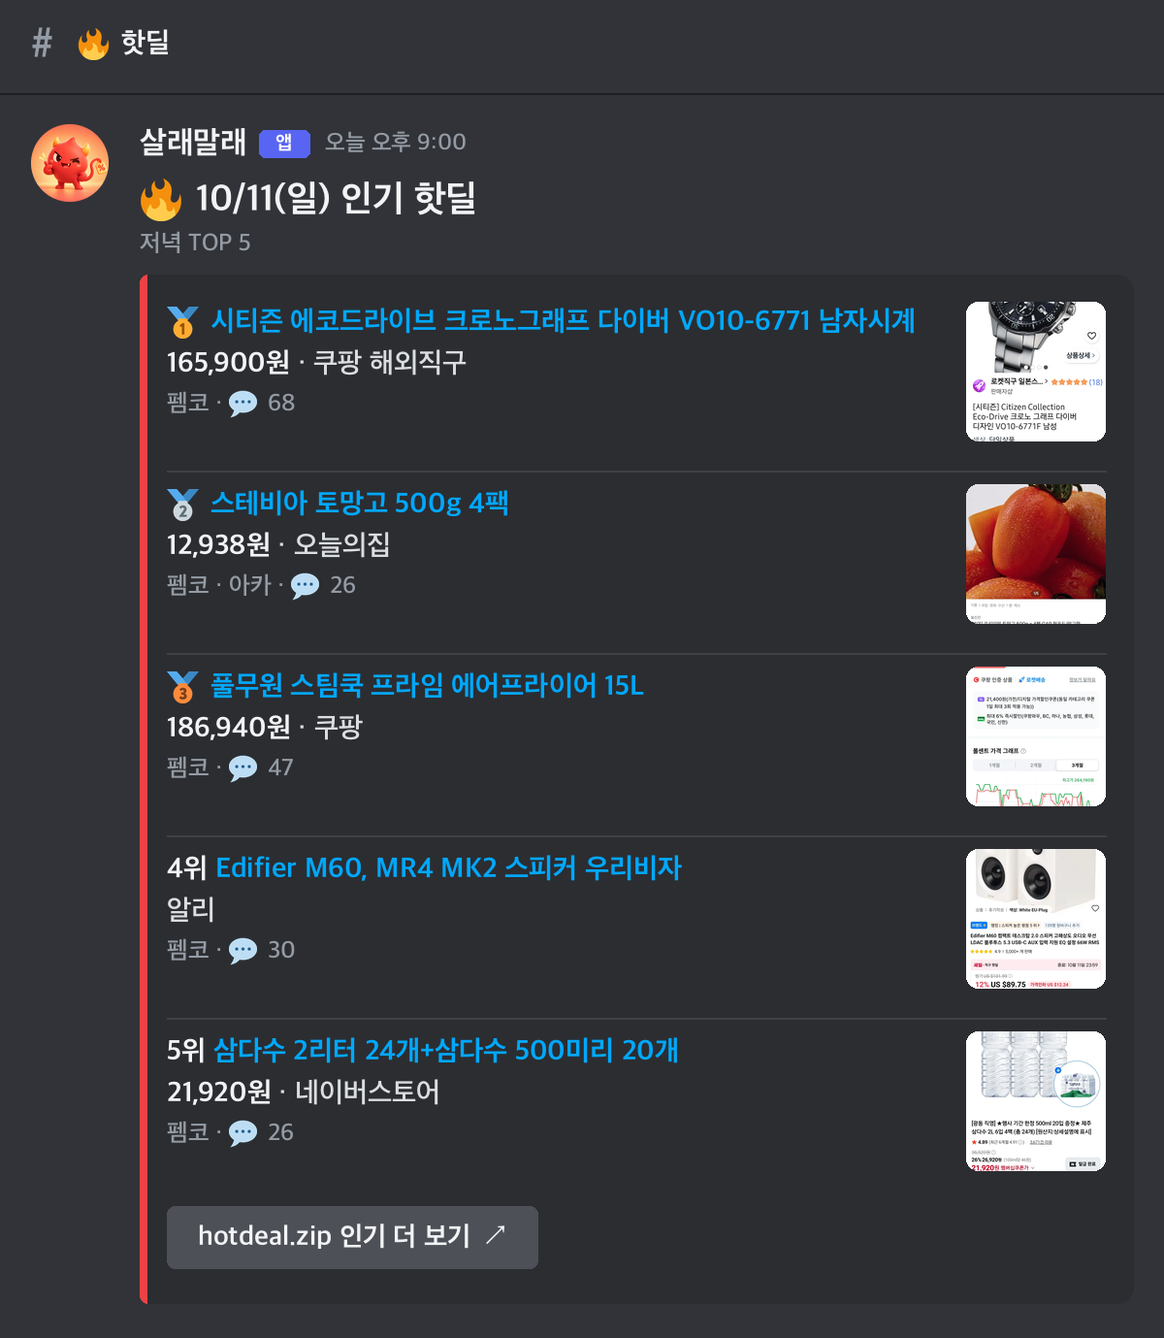
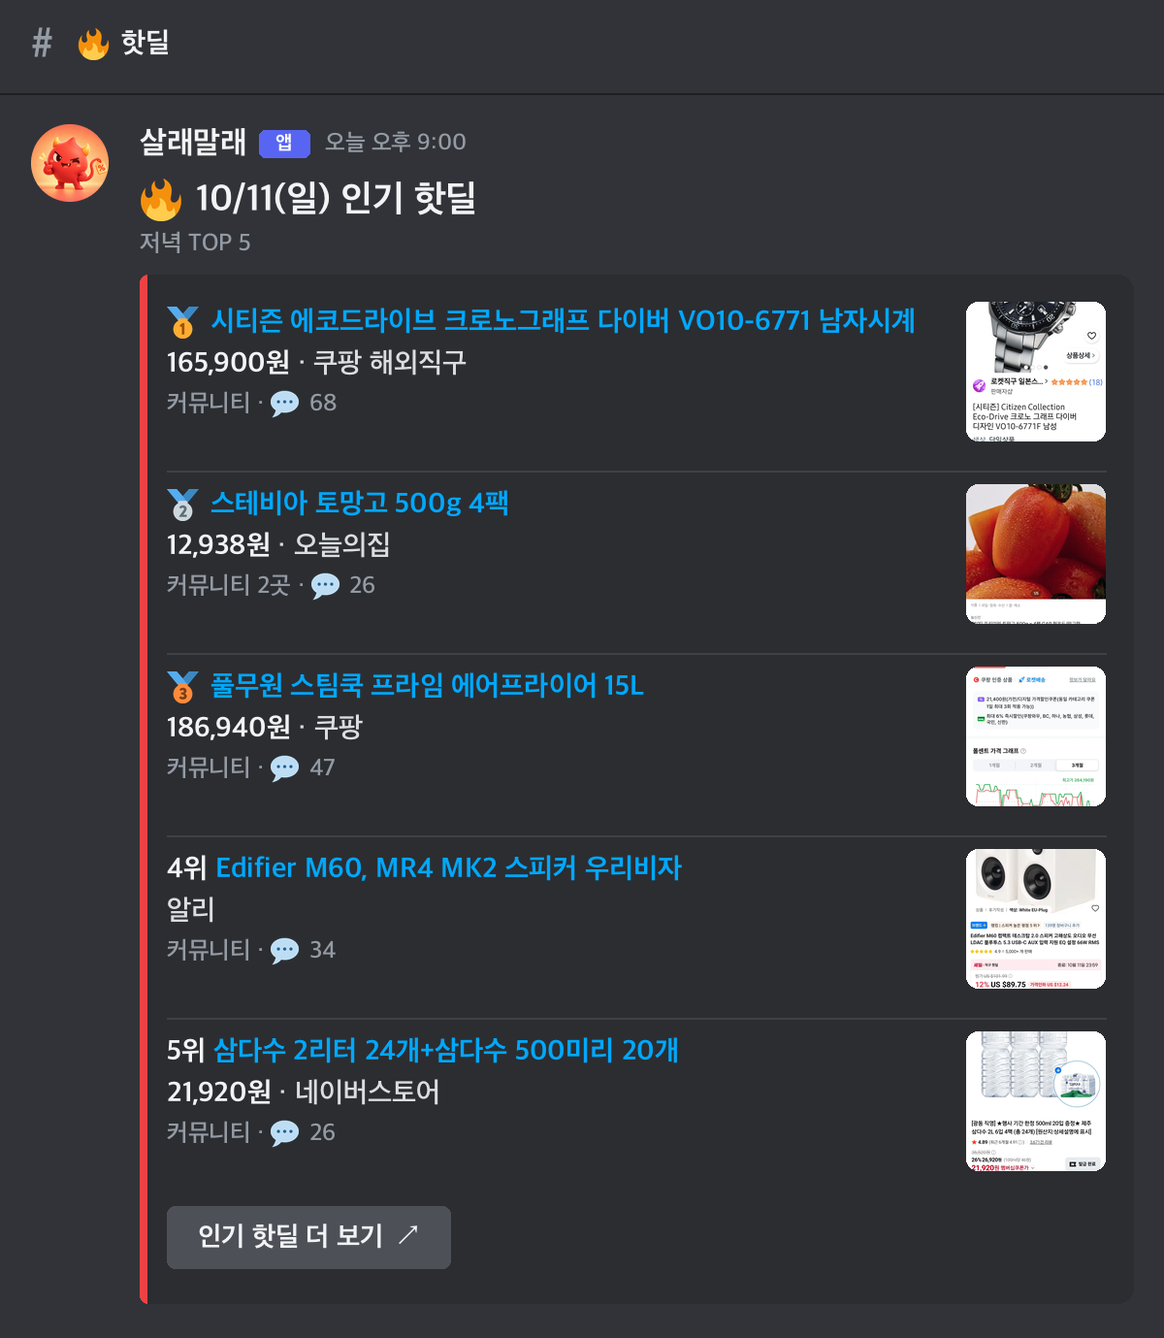
문서·README 예시 그림에서 커뮤니티·사이트 이름을 일반 명칭으로

diff --git a/docs/flow.html b/docs/flow.html
@@ -86,7 +86,7 @@ code{background:var(--neutral-bg);padding:1px 5px;border-radius:4px;font-size:.9
       <h2>📥 딜 모으기 · 알림</h2>
       <p class="sub">매 실행 · <code>sources.py</code> · <code>matcher.py</code></p>
       <div class="flow">
-        <div class="node n-blue">최근 24시간 딜 읽기<small>왓딜 API(펨코·뽐뿌·아카·퀘이사존…) · 루리웹 · 클리앙</small></div>
+        <div class="node n-blue">최근 24시간 딜 읽기<small>핫딜 모음 사이트 API · 커뮤니티 게시판 2곳</small></div>
         <div class="arrow"></div>
         <div class="node">SQLite에 기록<small>같은 딜은 묶고, 본 딜은 댓글 수만 새로</small></div>
         <div class="arrow"></div>
@@ -137,7 +137,7 @@ code{background:var(--neutral-bg);padding:1px 5px;border-radius:4px;font-size:.9
     <table>
       <tbody>
         <tr><th>실행</th><td>GitHub Actions <code>daily.yml</code> (cron-job.org가 15분마다 workflow_dispatch)</td></tr>
-        <tr><th>출처</th><td>왓딜 API · 루리웹 · 클리앙 (hotdeal.zip·알구몬·펨코 직접 읽기는 Actions IP에서 막힘)</td></tr>
+        <tr><th>출처</th><td>핫딜 모음 사이트 API · 커뮤니티 게시판 (Cloudflare 등으로 막히는 곳은 모음 사이트를 통해)</td></tr>
         <tr><th>저장</th><td><code>data/sallae.db</code>, <code>data/board.json</code> — Actions 캐시로 다음 실행에 넘김. 알림 목록은 비밀값 <code>SEED_JSON</code>으로 복원</td></tr>
         <tr><th>AI</th><td>Gemini <code>gemini-3.5-flash-lite</code> — 멘션 해석(도구 호출), 설명형 알림 판단</td></tr>
         <tr><th>비밀값</th><td><code>ENV_FILE</code> · <code>PEOPLE_JSON</code> · <code>SEED_JSON</code> — 로그에는 친구 이름·ID를 남기지 않음 (<a href="setup.md">setup.md</a>)</td></tr>
@@ -149,8 +149,8 @@ code{background:var(--neutral-bg);padding:1px 5px;border-radius:4px;font-size:.9
   <div class="tw">
     <table>
       <tbody>
-        <tr><th>v1</th><td>requests로 알구몬 랭킹 → Actions(데이터센터 IP)에서 403</td></tr>
-        <tr><th>v2·v3</th><td>맥 Chrome + AppleScript로 알구몬·hotdeal.zip, 관심사 알림, 상주 <code>@멘션</code> 봇 → 맥이 꺼지면 끊김</td></tr>
+        <tr><th>v1</th><td>requests로 모음 사이트 랭킹 → Actions(데이터센터 IP)에서 403</td></tr>
+        <tr><th>v2·v3</th><td>맥 Chrome + AppleScript로 모음 사이트 2곳, 관심사 알림, 상주 <code>@멘션</code> 봇 → 맥이 꺼지면 끊김</td></tr>
         <tr><th>v4</th><td class="good">Actions로 이전, 출처를 Actions에서 읽히는 곳으로, 순위를 직접 (2026-10-11~)</td></tr>
       </tbody>
     </table>

diff --git a/tools/readme_cards.py b/tools/readme_cards.py
@@ -1,7 +1,7 @@
 """README용: 실제 카드 메시지를 디스코드에 올라온 모습처럼 한 장으로 (다크 테마, 2배 해상도).
 
 지금 딜을 출처에서 한 번 읽어 임시 DB로 인기 카드와 알림 카드를 만들고, docs/images/에 PNG로 저장한다.
-알림 카드의 멘션은 가명. 실행: .venv/bin/python -m tools.readme_cards  (Pillow 필요, 실행용 의존성 아님)
+알림 카드의 멘션은 가명, 커뮤니티 이름은 "커뮤니티"로 가린다. 실행: .venv/bin/python -m tools.readme_cards  (Pillow 필요, 실행용 의존성 아님)
 """
 from __future__ import annotations
 
@@ -217,15 +217,17 @@ def main() -> None:
         recent = store.recent_deals(hours=16)
         now = datetime.now(KST).replace(hour=21)
         picks = ranking.top(recent, 5)
+        for g in picks:  # README에는 커뮤니티 이름을 쓰지 않는다
+            g["communities"] = ["커뮤니티"] if len(g["communities"]) < 2 else [f"커뮤니티 {len(g['communities'])}곳"]
         hot = build_board(board_header(now, "인기", "🔥"), "저녁 TOP 5", picks, BOARD_COLOR["hot"],
-                          ("hotdeal.zip 인기 더 보기", "https://hotdeal.zip/"))
+                          ("인기 핫딜 더 보기", "https://example.com/"))
         usable = [d for d in recent if d.get("image_url") and d.get("product_url") and d.get("price_str")]
         deal = next((d for d in usable if "모니터" in d["title"]), None)
         hit = {"owner_id": "1", "want": "게이밍 모니터", "price_drop": False, "reason": "사양이 게임용에 맞고 반응도 많아요."}
         if deal is None:  # 모니터 딜이 없으면 키워드 알림 예시로
             deal = usable[0]
             hit |= {"want": deal["title"].split()[0], "reason": None}
-        alert = build_alert([hit], deal)
+        alert = build_alert([hit], deal | {"community": "커뮤니티"})
         store.db.close()
     OUT.mkdir(parents=True, exist_ok=True)
     for name, payload, mentions in (("card-hot", hot, ()), ("card-alert", alert, ["민수"])):

diff --git a/docs/v3-design.md b/docs/v3-design.md
@@ -1,15 +1,17 @@
 # v3 설계
 
+> v3 당시 설계 기록입니다 (지금은 [versions.md](versions.md)의 v4). 출처 사이트 이름은 일반 명칭(모음 사이트 A·B, 커뮤니티)으로 적었습니다.
+
 > 상태: 운영 중 (2026-10-09). 0단계 진행, 1~4단계 완료, 5단계 남음. 결정한 내용은 [결정 사항](#결정-사항)에 있습니다. 실제 동작은 [how-it-works.md](how-it-works.md)가 기준입니다.
 
 ## 목표
 
 1. **관심사 알림.** 친구가 등록한 관심사에 맞는 딜이 올라오면 그 사람을 태그해 알린다.
 2. **자연어로 쓰기.** 명령어를 외우지 않고 `@살래말래 게이밍 모니터 핫딜 뜨면 알려줘`처럼 말하면 된다.
-3. **소스 넓히기.** 알구몬 3개 카테고리에 안 나오는 딜(네이버페이 할인 등)도 잡는다.
+3. **소스 넓히기.** 모음 사이트 A 3개 카테고리에 안 나오는 딜(네이버페이 할인 등)도 잡는다.
 4. 같은 자연어 구조를 imposter-finder에도 붙인다.
 
-매일 12:00 TOP 10 게시는 유지하되, 소스를 hotdeal.zip 인기로 바꿉니다.
+매일 12:00 TOP 10 게시는 유지하되, 소스를 모음 사이트 B 인기로 바꿉니다.
 
 ## 구조
 
@@ -19,10 +21,10 @@ launchd (KeepAlive)
        ├─ Discord gateway        @멘션 메시지 수신 → nl → 결과 답장
        ├─ nl.py                  Gemini 호출 (메시지 → 동작, 딜 ↔ 관심사 판단)
        ├─ scheduler
-       │    ├─ 매일 12:00        hotdeal.zip 인기 TOP 10 게시 (실패 시 1시간 뒤 재시도)
-       │    └─ 60분마다          hotdeal.zip 새 딜 수집 → 관심사 매칭 → 태그 알림
-       ├─ hotdealzip.py          TOP 10·매칭용 수집
-       ├─ collector.py           알구몬 카테고리 랭킹 (요청 시)
+       │    ├─ 매일 12:00        모음 사이트 B 인기 TOP 10 게시 (실패 시 1시간 뒤 재시도)
+       │    └─ 60분마다          모음 사이트 B 새 딜 수집 → 관심사 매칭 → 태그 알림
+       ├─ site_b.py          TOP 10·매칭용 수집
+       ├─ collector.py           모음 사이트 A 카테고리 랭킹 (요청 시)
        ├─ matcher.py             키워드·가격 매칭, 같은 딜 묶기
        ├─ people.py              이름·별명 → Discord ID
        └─ store.py               SQLite (data/sallae.db)
@@ -61,7 +63,7 @@ CREATE TABLE watches (
 );
 
 CREATE TABLE deals (
-  source       TEXT NOT NULL,      -- algumon / hotdealzip
+  source       TEXT NOT NULL,      -- site_a / site_b
   deal_id      TEXT NOT NULL,
   group_key    TEXT NOT NULL,      -- 같은 딜(크로스포스트)을 묶는 키
   title        TEXT NOT NULL,
@@ -100,7 +102,7 @@ CREATE TABLE notified (
 
 ```
 @진호 🔔 게이밍 모니터 — LG 울트라기어 27GX790A 480Hz OLED 899,000원
-쿠팡 · 퀘이사존 · https://...
+쿠팡 · 커뮤니티 · https://...
 💬 고사양 OLED 게이밍 모니터라 조건에 맞아요
 ```
 
@@ -170,9 +172,9 @@ imposter-finder에는 `pubg_stats(player, matches?)` 같은 도구를 같은 방
 
 | 용도 | 소스 | 주기 |
 |---|---|---|
-| 매일 TOP 10 | hotdeal.zip 인기 (`/인기`), 중복 제거 후 상위 10개 | 하루 1회 |
-| "게임 핫딜 알려줘" 같은 요청 | 알구몬 카테고리 랭킹 (`/n/deal/rank?categoryId=`) | 요청 시 |
-| 관심사 매칭 | hotdeal.zip 전체 최신 (`/`) + 인기 (`/인기`) | 60분 |
+| 매일 TOP 10 | 모음 사이트 B 인기 , 중복 제거 후 상위 10개 | 하루 1회 |
+| "게임 핫딜 알려줘" 같은 요청 | 모음 사이트 A 카테고리 랭킹 (`카테고리 랭킹 페이지`) | 요청 시 |
+| 관심사 매칭 | 모음 사이트 B 전체 최신  + 인기  | 60분 |
 
 ### 관심사 매칭은 검색이 아니라 "새 딜 훑기"
 - 관심사마다 사이트를 검색하지 않습니다. 60분마다 새로 올라온 딜 목록을 한 번 가져와서, 그 목록을 모든 관심사와 대조합니다. 관심사가 늘어도 사이트 요청 수는 그대로입니다.
@@ -181,21 +183,21 @@ imposter-finder에는 `pubg_stats(player, matches?)` 같은 도구를 같은 방
 - 결과는 맞는 딜이 있을 때만 핫딜 고정 thread에 대상자 태그와 함께 올라갑니다. 없으면 아무것도 보내지 않습니다.
 
 ### 조사할 것
-- hotdeal.zip 인기의 정렬 기준, "오늘"의 범위(12:00이면 반나절치뿐인지), 카테고리 치우침(10/9: 25개 중 PC 11개)
+- 모음 사이트 B 인기의 정렬 기준, "오늘"의 범위(12:00이면 반나절치뿐인지), 카테고리 치우침(10/9: 25개 중 PC 11개)
 - 시간대별 딜 수 (낮 시간에도 3페이지가 60분을 넘는지)
-- 며칠간 인기 HTML을 저장해 알구몬 TOP 10과 비교
+- 며칠간 인기 HTML을 저장해 모음 사이트 A TOP 10과 비교
 
 ### 요청량
-- 60분마다 hotdeal.zip 2~3페이지, 하루 50~75회입니다. 알구몬은 매일 TOP 10에서 빠지고 요청이 있을 때만 읽어서 오히려 줄어듭니다.
-- hotdeal.zip도 Cloudflare 챌린지가 있어서 요청이 몰리면 막힐 수 있습니다. 지켜보며 간격을 조정합니다.
+- 60분마다 모음 사이트 B 2~3페이지, 하루 50~75회입니다. 모음 사이트 A은 매일 TOP 10에서 빠지고 요청이 있을 때만 읽어서 오히려 줄어듭니다.
+- 모음 사이트 B도 Cloudflare 챌린지가 있어서 요청이 몰리면 막힐 수 있습니다. 지켜보며 간격을 조정합니다.
 - 그때마다 Chrome에 탭이 몇 초씩 열립니다.
 
 ## 단계
 
 | 단계 | 내용 | 확인 방법 |
 |---|---|---|
-| 0 | hotdeal.zip 인기·최신 특성 조사 (며칠간 HTML 저장) — **진행 중**, `snapshot` 하루 4번 | 알구몬 TOP 10과 비교, 시간당 딜 수 |
-| 1 | `hotdealzip.py` + 매일 TOP 10을 hotdeal.zip 인기로 전환 — **완료** | fixture로 파서 테스트, DEV thread 게시 |
+| 0 | 모음 사이트 B 인기·최신 특성 조사 (며칠간 HTML 저장) — **진행 중**, `snapshot` 하루 4번 | 모음 사이트 A TOP 10과 비교, 시간당 딜 수 |
+| 1 | `site_b.py` + 매일 TOP 10을 모음 사이트 B 인기로 전환 — **완료** | fixture로 파서 테스트, DEV thread 게시 |
 | 2 | `store.py` + `matcher.py` + 60분 수집, 키워드 매칭·알림 규칙. 관심사는 우선 `watch-add`로 직접 등록 — **완료** | fixture로 매칭 테스트, DEV thread 알림 |
 | 3 | `serve` 상주 봇 + `@멘션` 자연어 처리 (`bot.py`, `nl.py`, `people.py`) — **완료**. 매일 TOP 10·매칭은 launchd 작업으로 유지 | DEV 채널에서 등록·조회·삭제·대신 등록 |
 | 4 | 설명형 관심사 Gemini 판단 — **완료** (2단계와 함께) | 저장한 딜 목록으로 판단 결과 확인 |
@@ -205,7 +207,7 @@ imposter-finder에는 `pubg_stats(player, matches?)` 같은 도구를 같은 방
 
 | 항목 | 결정 |
 |---|---|
-| 매일 TOP 10 | hotdeal.zip 인기로 교체 (특성 조사 후 확정). 카테고리별 랭킹은 요청 시 알구몬 |
+| 매일 TOP 10 | 모음 사이트 B 인기로 교체 (특성 조사 후 확정). 카테고리별 랭킹은 요청 시 모음 사이트 A |
 | 관심사 매칭 주기 | 60분 |
 | 알림 위치 | 지금 쓰는 핫딜 고정 thread에 `@silent`로 올리고, 대상자에게는 DM |
 | 전체 알림 목록 | thread 고정 메시지 "🔔 알림 키워드"를 봇이 수정 |

diff --git a/docs/how-it-works.md b/docs/how-it-works.md
@@ -7,7 +7,7 @@ v4(현재) 기준입니다. 흐름도는 [flow.html](flow.html), 설정은 [setu
 ```
 cron-job.org (15분마다) → GitHub Actions daily.yml
   └─ python -m app cycle
-       ├─ sources.py   왓딜 API · 루리웹 · 클리앙에서 최근 24시간 딜 읽기
+       ├─ sources.py   핫딜 모음 사이트 API · 커뮤니티 게시판에서 최근 24시간 딜 읽기
        ├─ store.py     SQLite에 기록 (같은 딜은 묶고, 이미 본 딜은 댓글 수만 새로)
        ├─ matcher.py   새 딜 ↔ 관심사 → notifier.post_alert (스레드 + DM)
        ├─ mentions.py  핫딜 thread의 새 @멘션 → nl.py(Gemini) → commands.py
@@ -22,29 +22,30 @@ GitHub Actions는 미국 데이터센터 IP라 여러 사이트가 막습니다 
 
 | 사이트 | Actions에서 | 비고 |
 |---|---|---|
-| 왓딜 `whatdeal.kr/api/deals` | ✅ | 뽐뿌·펨코·아카라이브·퀘이사존·어미새 등 새 딜, 댓글 수·상품 링크(`product_url_key`)·카테고리. 왓딜 자체 '인기순'은 사이트 안 클릭 수라 쓰지 않음 |
-| 루리웹 핫딜, 클리앙 알뜰구매 | ✅ | 목록을 직접 읽어 추천·조회 수까지 |
-| 뽐뿌 RSS, 어미새 | ✅ | 지금은 왓딜로 받음 |
-| hotdeal.zip, 알구몬 | ❌ | Cloudflare / Turnstile. 일반 요청·크롬 흉내·헤드리스·실제 창 모두 막힘 |
-| 펨코(RSS·모바일 포함), 퀘이사존, 아카라이브, 쿨엔조이 | ❌ | 직접은 막힘 → 왓딜로 받음 |
+| 핫딜 모음 사이트 API (1곳) | ✅ | 여러 커뮤니티의 새 딜, 댓글 수·상품 링크(`product_url_key`)·카테고리. 그 사이트 자체 '인기순'은 사이트 안 클릭 수라 쓰지 않음 |
+| 커뮤니티 핫딜 게시판 (2곳) | ✅ | 목록을 직접 읽어 추천·조회 수까지 |
+| 다른 핫딜 모음 사이트 (예전 출처 2곳) | ❌ | Cloudflare / Turnstile. 일반 요청·크롬 흉내·헤드리스·실제 창 모두 막힘 |
+| 일부 큰 커뮤니티 (RSS·모바일 포함) | ❌ | 직접은 막힘 → 모음 사이트 API로 받음 |
+
+출처 주소와 읽는 방법은 [`app/sources.py`](../app/sources.py)에 있습니다.
 
 - 매 실행 하루치를 다시 읽어 댓글 수를 최신으로 맞춥니다 (요청 약 6번, 사이트마다 1.5초 간격).
-- 한 출처가 실패해도 나머지로 계속합니다. 왓딜이 막히면 루리웹·클리앙만 남습니다.
+- 한 출처가 실패해도 나머지로 계속합니다. 모음 사이트 API가 막히면 직접 읽는 게시판 2곳만 남습니다.
 
 ## 순위 (`ranking.py`)
 
-- **점수:** 커뮤니티 안에서 댓글(추천) 수가 상위 몇 %인지 60% + 댓글 절대 수 40%. 댓글이 많은 펨코가 위로 오는 편입니다 (일부러 그렇게 둠). 여러 커뮤니티에 같이 올라오면 곳마다 +0.12.
+- **점수:** 커뮤니티 안에서 댓글(추천) 수가 상위 몇 %인지 60% + 댓글 절대 수 40%. 댓글이 많이 달리는 큰 커뮤니티가 위로 오는 편입니다 (일부러 그렇게 둠). 여러 커뮤니티에 같이 올라오면 곳마다 +0.12.
 - **같은 딜:** 원문 주소나 상품 링크(`product_key`)가 같거나, 제목이 거의 같거나 가격이 같고 제목이 비슷하면 한 줄 (`dedupe.py`).
 - **같은 행사:** 같은 커뮤니티·쇼핑몰(쿠팡=쿠팡와우)·카테고리에서 30분 안에 비슷한 가격으로 올라온 딜은 대표 한 줄에 "외 n개 같은 행사".
 - **빼는 것:** 종료된 딜, 제목의 기간 `(~10/10)`이 지난 딜, 그 게시판에 2일 안에 올린 딜, (카테고리 글) 오늘 인기에 이미 나온 딜.
-- 범위: 인기 최근 16시간, 카테고리 최근 24시간. 카테고리는 왓딜 분류(game·digital·food)와 루리웹 말머리를 씁니다.
+- 범위: 인기 최근 16시간, 카테고리 최근 24시간. 카테고리는 모음 사이트의 분류(game·digital·food)와 게시판 말머리를 씁니다.
 
 ## 게시판 글
 
 | 게시판 | 시각 (KST) | 맨 아래 버튼 |
 |---|---|---|
-| 🔥 인기 | 12시 · 21시 | hotdeal.zip 인기 더 보기 |
-| 🎮 게임 · 💻 IT · 🍜 식품 | 12시 | 알구몬 ○○ 랭킹 더 보기 |
+| 🔥 인기 | 12시 · 21시 | 핫딜 모음 사이트 인기 더 보기 |
+| 🎮 게임 · 💻 IT · 🍜 식품 | 12시 | 핫딜 모음 사이트 ○○ 랭킹 더 보기 |
 
 - 카드: 딜마다 순위·제목(원문 링크) / 가격·쇼핑몰 / 출처·💬댓글·👍추천, 오른쪽에 상품 사진 (Components V2).
 - Actions가 늦게 돌아도 그 시각부터 3시간 안이면 올리고, 시간대마다 한 번만 올립니다 (`meta`의 `posted:게시판:날짜-시`).

diff --git a/docs/versions.md b/docs/versions.md
@@ -2,17 +2,17 @@
 
 | 버전 | 상태 | 한 줄 요약 |
 |---|---|---|
-| v1 | 종료 | requests로 알구몬 랭킹 수집, 매일 TOP 10 게시 |
+| v1 | 종료 | requests로 핫딜 모음 사이트 랭킹 수집, 매일 TOP 10 게시 |
 | v2 | v3에 포함 | 수집을 Chrome + AppleScript로 교체 |
-| v3 | 종료 (2026-10-09~11) | hotdeal.zip TOP 10, 관심사 DM 알림, `@멘션` 자연어 봇 (맥 상주) |
-| v4 | **운영 중** (2026-10-11~) | GitHub Actions로 이전: 왓딜·루리웹·클리앙, 직접 매기는 TOP 5, 실행마다 멘션 처리 |
+| v3 | 종료 (2026-10-09~11) | 다른 모음 사이트 인기 TOP 10, 관심사 DM 알림, `@멘션` 자연어 봇 (맥 상주) |
+| v4 | **운영 중** (2026-10-11~) | GitHub Actions로 이전: Actions에서 읽히는 출처로, 직접 매기는 TOP 5, 실행마다 멘션 처리 |
 
 ## v1 — requests 수집
 
-- 알구몬 `/n/deal/rank?categoryId=` 랭킹을 requests + BeautifulSoup으로 파싱
+- 핫딜 모음 사이트의 카테고리 랭킹을 requests + BeautifulSoup으로 파싱
 - 게임·IT·식품 TOP 10을 Discord 고정 thread에 게시
 - GitHub Actions(cron-job.org 트리거)로 운영하다 로컬 launchd로 이전
-- **종료 사유:** 알구몬이 자동화 요청을 Turnstile 챌린지로 막음
+- **종료 사유:** 그 사이트가 자동화 요청을 Turnstile 챌린지로 막음
   - GitHub Actions: 2026-07-22부터 403 (데이터센터 IP)
   - 로컬 Mac: 2026-10-09부터 403
   - 실패해도 exit 0이라 3주 가까이 모르고 지나감
@@ -29,12 +29,12 @@
 
 자세한 설계: [v3-design.md](v3-design.md), 동작: [how-it-works.md](how-it-works.md)
 
-- **매일 TOP 10:** 알구몬 카테고리 3개 → hotdeal.zip 인기 1개 (카테고리 랭킹은 요청 시)
+- **매일 TOP 10:** 모음 사이트 카테고리 3개 → 다른 모음 사이트 인기 1개 (카테고리 랭킹은 요청 시)
 - **관심사 알림:** 상품명·가격 또는 설명("괜찮은 게이밍 모니터")으로 등록, 매시 30분 새 딜을 훑어 맞으면 알림. 대신 등록, 한 번만, 가격 인하 재알림
 - **`@멘션` 봇:** Gemini가 말을 해석해 등록·해제·목록·검색·랭킹 보기
 - **조용한 스레드 + DM:** 스레드 글은 모두 `@silent`, 받을 사람에게만 DM
 - **알림 키워드:** 핫딜 스레드 고정 메시지에 전체 알림 목록, 변경 시 자동 수정
-- **남은 것:** hotdeal.zip 인기 특성 조사(스냅샷 수집 중), imposter-finder에 같은 자연어 구조 적용
+- **남은 것:** 인기 목록 특성 조사(스냅샷 수집 중), imposter-finder에 같은 자연어 구조 적용
 
 **종료 사유:** 맥이 배터리로 꺼지거나 잠들면 12시 글·알림·봇이 끊김 (2026-10-11 12시 글 누락). 범인찾기도 같은 이유로 Actions로 옮김.
 
@@ -42,7 +42,7 @@
 
 동작: [how-it-works.md](how-it-works.md)
 
-- **출처 교체:** hotdeal.zip·알구몬은 Actions에서 막혀서(Cloudflare/Turnstile) 왓딜 API + 루리웹·클리앙 직접. 펨코·퀘이사존·아카라이브는 왓딜을 통해
+- **출처 교체:** 예전 모음 사이트 2곳은 Actions에서 막혀서(Cloudflare/Turnstile) Actions에서 읽히는 모음 사이트 API 1곳 + 커뮤니티 게시판 2곳 직접. 직접 막히는 큰 커뮤니티는 모음 사이트를 통해
 - **순위를 직접:** 커뮤니티별 댓글(추천) 백분위 + 댓글 수 + 여러 곳 보너스, 같은 딜·같은 행사 묶기
 - **글:** 인기 TOP 5 하루 2번(12·21시), 게임·IT·식품 TOP 5 하루 1번(12시). 딜마다 썸네일, 맨 아래 더 보기 버튼. 이미 올린 딜은 2일간 다시 안 올림
 - **@멘션:** 상주 봇 대신 15분마다 새 멘션을 읽어 Gemini로 처리. "오늘 ○○ 핫딜" 순위 보기는 정해진 글로 대신해 뺌

diff --git a/README.md b/README.md
@@ -4,14 +4,14 @@
 
 친구들 디스코드 핫딜 스레드에 **오늘의 인기 핫딜**을 골라 올리고, 친구들이 걸어둔 관심사에 맞는 딜이 뜨면 그 사람에게 알려 주는 봇입니다.
 
-- 왓딜(펨코·뽐뿌·아카라이브·퀘이사존·어미새…)과 루리웹·클리앙의 새 딜을 모아, 댓글·추천 반응으로 순위를 매깁니다. 같은 딜과 같은 행사는 한 줄로 묶습니다.
+- 여러 핫딜 커뮤니티의 새 딜을 모아, 댓글·추천 반응으로 순위를 매깁니다. 같은 딜과 같은 행사는 한 줄로 묶습니다.
 - **🔥 인기 TOP 5**는 12시·21시, **🎮 게임 · 💻 IT · 🍜 식품 TOP 5**는 12시에 올립니다.
 - `@살래말래 메가커피 뜨면 알려줘`처럼 말하면 Gemini가 알아듣고 알림을 걸어 줍니다. "괜찮은 게이밍 모니터"처럼 종류로 말해도 됩니다.
 - GitHub Actions에서 돌며 서버가 필요 없습니다 ([cron-job.org](https://cron-job.org)가 15분마다 실행).
 
 ## 카드 예시
 
-> 디스코드에 올라오는 모습입니다 (누르면 크게). 실제 딜로 만들었고 멘션만 가명입니다 ([tools/readme_cards.py](tools/readme_cards.py)).
+> 디스코드에 올라오는 모습입니다 (누르면 크게). 실제 딜로 만들었고 멘션은 가명, 커뮤니티 이름은 가렸습니다 ([tools/readme_cards.py](tools/readme_cards.py)).
 
 <p>
   <a href="docs/images/card-hot.png"><img src="docs/images/card-hot.png" width="48%" align="top" alt="인기 TOP 5 카드"></a>
@@ -47,6 +47,6 @@ cp .env.example .env                       # 봇 토큰·채널 ID·Gemini 키
 | [docs/setup.md](docs/setup.md) | GitHub Actions 비밀값·cron-job.org 설정, 로컬 실행 |
 | [docs/how-it-works.md](docs/how-it-works.md) | 출처, 순위 매기기, 글·알림·@멘션 동작 |
 | [docs/flow.html](docs/flow.html) | 흐름도 |
-| [docs/versions.md](docs/versions.md) | 버전별 변화 (알구몬 → hotdeal.zip → Actions) |
+| [docs/versions.md](docs/versions.md) | 버전별 변화 (맥 크롬 수집 → GitHub Actions) |
 
 Python · requests · BeautifulSoup · Gemini · Discord REST (Components V2).
